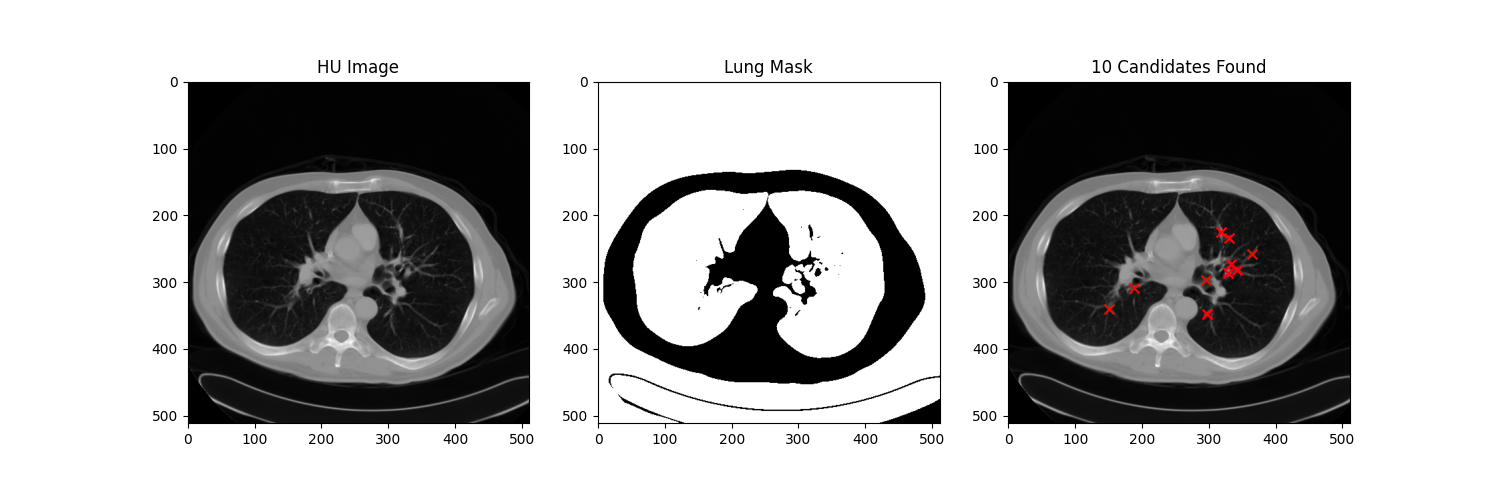
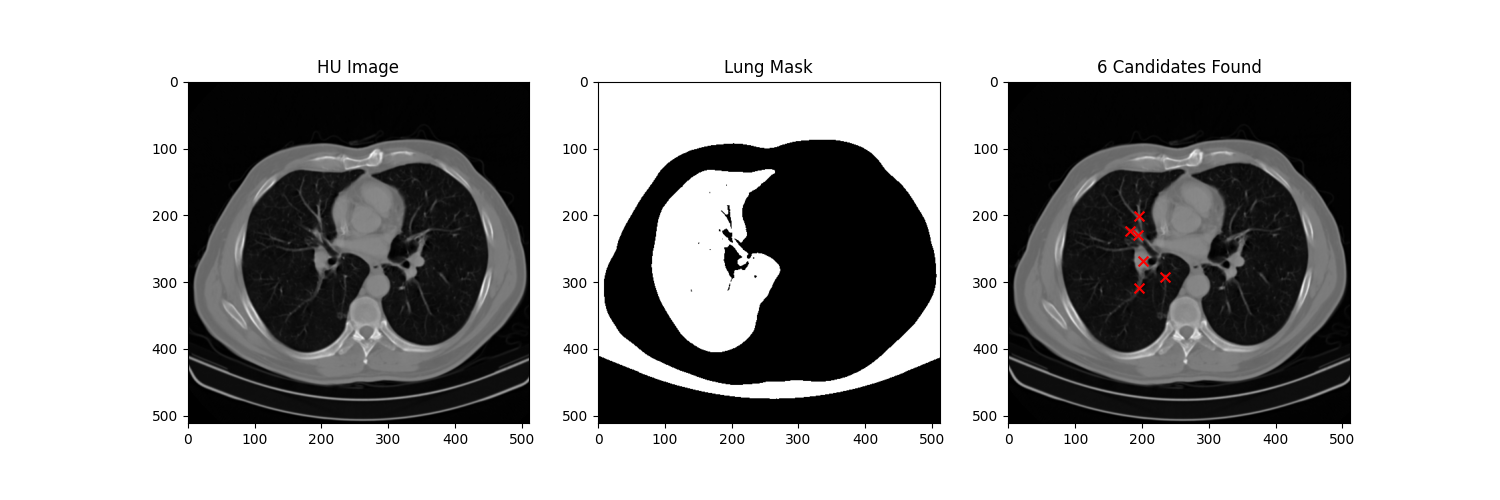
Fix import path for full_pipeline.py after moving to root

diff --git a/src/app/app.py b/src/app/app.py
@@ -7,7 +7,8 @@ import pandas as pd
 import tempfile
 import os
 import sys
-sys.path.append(os.path.dirname(os.path.dirname(os.path.abspath(__file__))))
+
+sys.path.append(os.path.dirname(os.path.dirname(os.path.dirname(os.path.abspath(__file__)))))
 from full_pipeline import run_full_pipeline
 
 # ── Page Config ──────────────────────────────────────────────